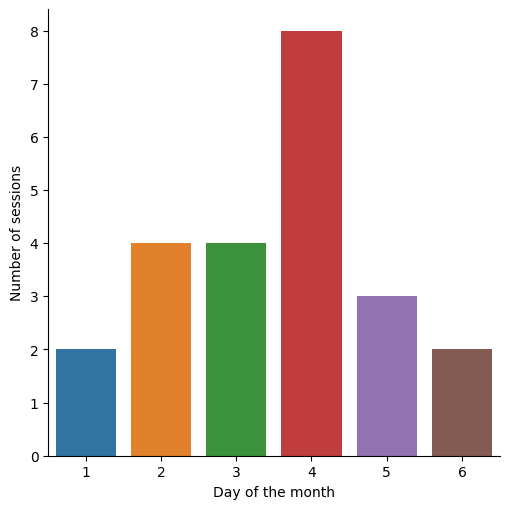
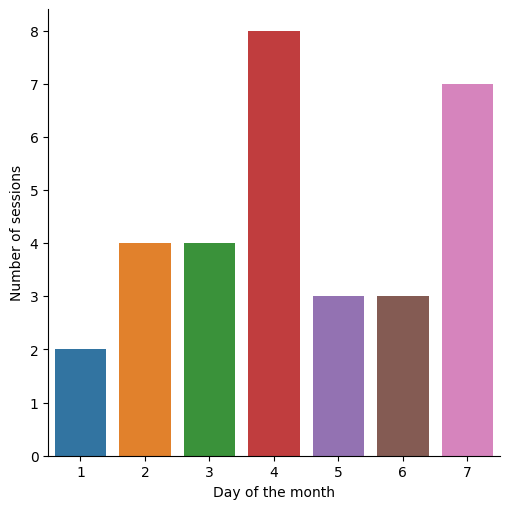
"Stats generated 2021-06-08"

diff --git a/all/2021/6/weekdays/0/index.html b/all/2021/6/weekdays/0/index.html
@@ -1,0 +1,29 @@
+<!DOCTYPE html>
+<html>
+  <head>
+    <meta charset="utf-8"/>
+    <title>Mondays June 2021</title>
+    <link rel="stylesheet" href="../../../../../styles.css"/>
+  </head>
+  <body>
+    <div id="container">
+      <nav>
+        <ul>
+          
+            <li><a href="../../">June 2021</a></li>
+            <li class="separator"></li>
+          
+          
+        </ul>
+      </nav>
+      <main>
+        <h1>Mondays June 2021</h1>
+        
+          <h2>Number of sessions per hour</h2>
+          <img src="sessions.png" alt="Number of sessions per hour"/>
+        
+        
+      </main>
+    </div>
+  </body>
+</html>

diff --git a/all/2021/6/days/7/index.html b/all/2021/6/days/7/index.html
@@ -1,0 +1,29 @@
+<!DOCTYPE html>
+<html>
+  <head>
+    <meta charset="utf-8"/>
+    <title>7 June 2021</title>
+    <link rel="stylesheet" href="../../../../../styles.css"/>
+  </head>
+  <body>
+    <div id="container">
+      <nav>
+        <ul>
+          
+            <li><a href="../../">June 2021</a></li>
+            <li class="separator"></li>
+          
+          
+        </ul>
+      </nav>
+      <main>
+        <h1>7 June 2021</h1>
+        
+          <h2>Number of sessions per hour</h2>
+          <img src="sessions.png" alt="Number of sessions per hour"/>
+        
+        
+      </main>
+    </div>
+  </body>
+</html>

diff --git a/all/2021/6/index.html b/all/2021/6/index.html
@@ -19,6 +19,10 @@
             
           
             
+              <li><a href="weekdays/0/">Monday</a></li>
+            
+          
+            
               <li><a href="weekdays/1/">Tuesday</a></li>
             
           
@@ -68,6 +72,10 @@
           
             
               <li><a href="days/6/">6</a></li>
+            
+          
+            
+              <li><a href="days/7/">7</a></li>
             
           
         </ul>

diff --git a/all/2021/index.html b/all/2021/index.html
@@ -107,9 +107,9 @@
                   
                     <td>6.0</td>
                   
-                    <td>23.0</td>
+                    <td>31.0</td>
                   
-                    <td>155.23187046666666</td>
+                    <td>134.12126861666667</td>
                   
                 </tr>
               
